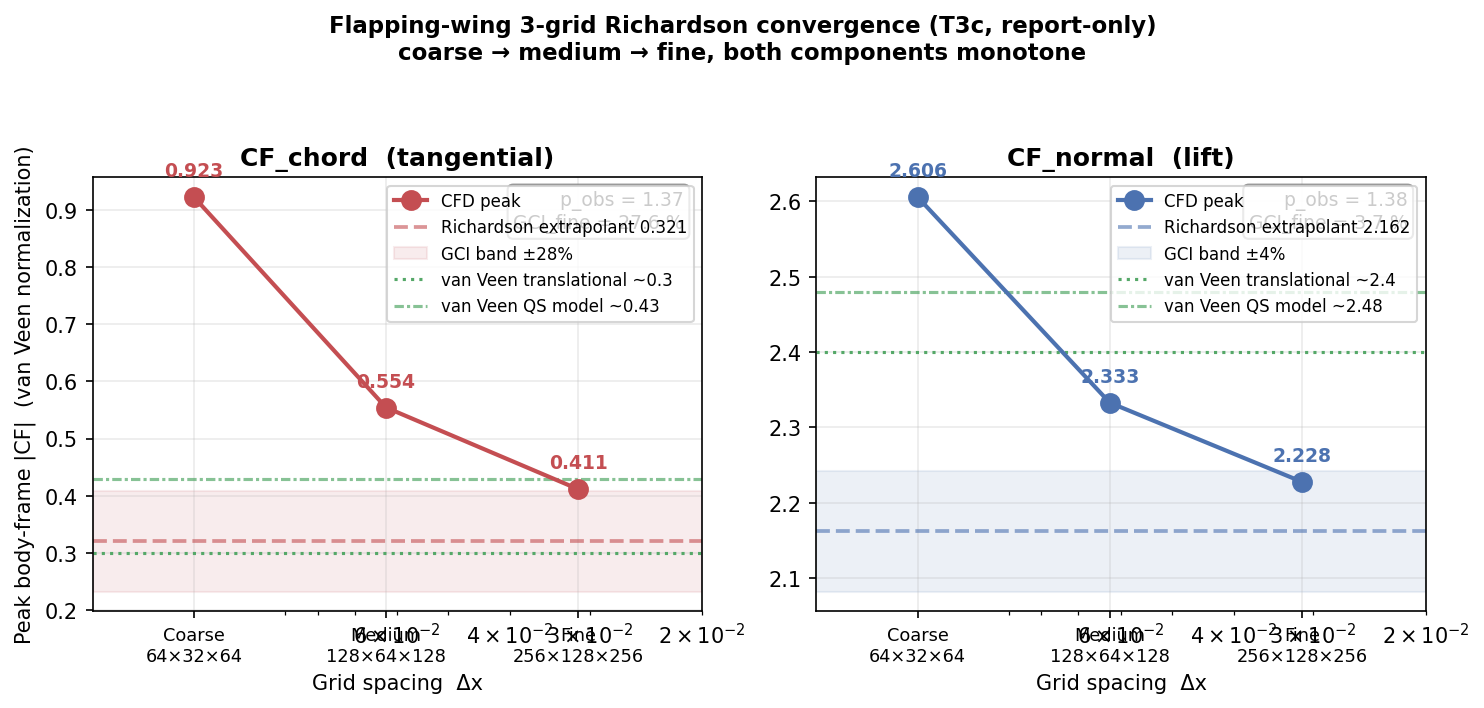
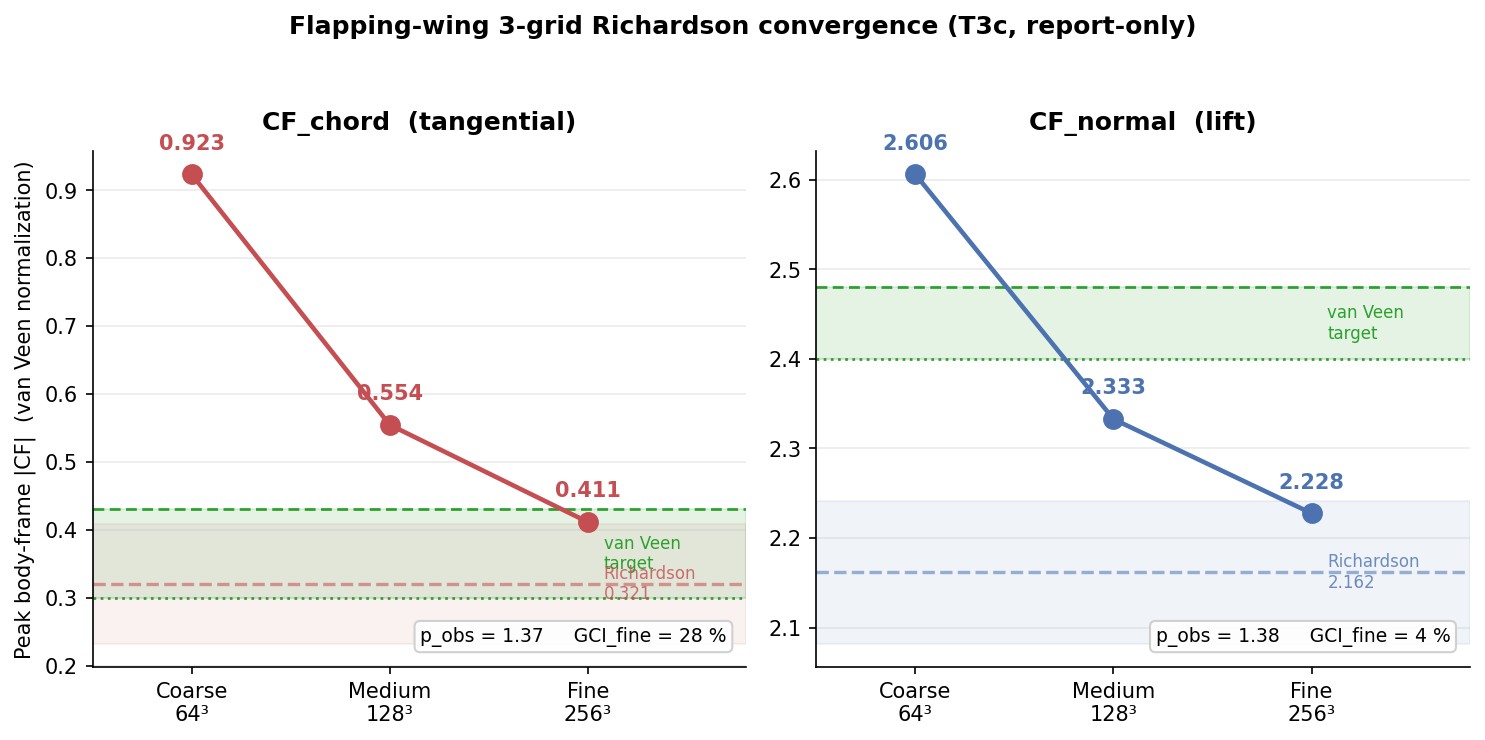
fix(T3c-figures): resolve text overlap in convergence and time-series figures
Convergence figure: replace log-scale x-axis with categorical positions (0/1/2)
— eliminates scientific-notation tick labels colliding with Coarse/Medium/Fine labels.
Van Veen target annotated directly on axis instead of via legend.
Richardson extrapolant and p_obs/GCI stats laid out without overlap.

Time-series figure: draw van Veen reference bands before calling ax.legend() so
band labels appear in the legend (previously they were added after legend() call and
were invisible). Grid-only legend separated from band annotation via direct ax.text().
Label spacing cleaned up.

diff --git a/examples/flapping_wing/make_grid_convergence_3grid_figure.py b/examples/flapping_wing/make_grid_convergence_3grid_figure.py
@@ -14,7 +14,6 @@ import matplotlib
 
 matplotlib.use("Agg")
 import matplotlib.pyplot as plt
-import numpy as np
 
 from mosquito_cfd.benchmarks.wing_convergence import (
     wing_grid_convergence_from_body_forces,
@@ -25,11 +24,13 @@ _COARSE = _HERE / "forces_t2a_newconv.csv"
 _MEDIUM = _HERE / "forces_medium.csv"
 _FINE = _HERE / "forces_fine.csv"
 
-_DX = [0.125, 0.0625, 0.03125]
-_LABELS = ["Coarse\n64×32×64", "Medium\n128×64×128", "Fine\n256×128×256"]
-_VAN_VEEN = {"cf_chord": (0.3, 0.43), "cf_normal": (2.4, 2.48)}  # (translational, QS model)
+_XTICKS = [0, 1, 2]
+_XLABELS = ["Coarse\n64³", "Medium\n128³", "Fine\n256³"]
+# van Veen references: (translational-only, full QS model)
+_VAN_VEEN = {"cf_chord": (0.3, 0.43), "cf_normal": (2.4, 2.48)}
 _TITLES = {"cf_chord": "CF_chord  (tangential)", "cf_normal": "CF_normal  (lift)"}
 _COLORS = {"cf_chord": "#c44e52", "cf_normal": "#4c72b0"}
+_VV_COLOR = "#2ca02c"
 
 
 def make_figure(
@@ -40,71 +41,74 @@ def make_figure(
         _COARSE, _MEDIUM, _FINE, f_star=1.0, phi_amp_deg=70.0, pitch_amp_deg=45.0
     )
 
-    fig, axes = plt.subplots(1, 2, figsize=(10, 4.8))
+    fig, axes = plt.subplots(1, 2, figsize=(10, 5))
 
     for ax, comp in zip(axes, ("cf_chord", "cf_normal")):
         d = conv[comp]
         vals = [d["cf_coarse"], d["cf_medium"], d["cf_fine"]]
         color = _COLORS[comp]
-
-        # Grid points
-        ax.plot(_DX, vals, "o-", color=color, lw=2, ms=9, zorder=4, label="CFD peak")
-        for dx, v in zip(_DX, vals):
-            ax.annotate(
-                f"{v:.3f}",
-                xy=(dx, v),
-                xytext=(0, 10),
-                textcoords="offset points",
-                ha="center",
-                fontsize=9,
-                fontweight="bold",
-                color=color,
-            )
-
-        # Richardson extrapolant + GCI band
         h0 = d["cf_exact_richardson"]
         gci = d["gci_fine"]
-        ax.axhline(h0, ls="--", lw=1.8, color=color, alpha=0.6, zorder=2,
-                   label=f"Richardson extrapolant {h0:.3f}")
-        ax.axhspan(h0 * (1 - gci), h0 * (1 + gci), color=color, alpha=0.10, zorder=1,
-                   label=f"GCI band ±{gci*100:.0f}%")
-
-        # Van Veen reference lines
-        vv_transl, vv_model = _VAN_VEEN[comp]
-        ax.axhline(vv_transl, ls=":", lw=1.5, color="#55a868", zorder=2,
-                   label=f"van Veen translational ~{vv_transl}")
-        if vv_model != vv_transl:
-            ax.axhline(vv_model, ls=(0, (3, 1, 1, 1)), lw=1.5, color="#55a868", alpha=0.7,
-                       zorder=2, label=f"van Veen QS model ~{vv_model}")
-
-        # Annotations
         p_obs = d["observed_order"]
-        ax.set_title(_TITLES[comp], fontsize=12, fontweight="bold")
-        ax.set_xlabel("Grid spacing  Δx", fontsize=10)
-        ax.set_xscale("log")
-        ax.set_xlim(0.18, 0.02)  # coarse on left, fine on right — reversed log
-        ax.set_xticks(_DX)
-        ax.set_xticklabels(_LABELS, fontsize=8.5)
-        ax.grid(alpha=0.25, zorder=0)
-        ax.legend(fontsize=8, loc="best")
+        vv_transl, vv_model = _VAN_VEEN[comp]
 
-        # p_obs label
+        # Van Veen shaded band (translational → QS model range)
+        ax.axhspan(vv_transl, vv_model, color=_VV_COLOR, alpha=0.12, zorder=1)
+        ax.axhline(vv_transl, ls=":", lw=1.3, color=_VV_COLOR, zorder=2)
+        ax.axhline(vv_model, ls=(0, (4, 2)), lw=1.3, color=_VV_COLOR, zorder=2)
         ax.text(
-            0.97, 0.97,
-            f"p_obs = {p_obs:.2f}\nGCI_fine = {gci*100:.1f} %",
-            transform=ax.transAxes,
-            ha="right", va="top",
-            fontsize=9,
-            bbox=dict(boxstyle="round,pad=0.3", fc="white", ec="gray", alpha=0.8),
+            2.08, (vv_transl + vv_model) / 2,
+            "van Veen\ntarget",
+            color=_VV_COLOR, fontsize=8, va="center",
         )
+
+        # Richardson extrapolant
+        ax.axhline(h0, ls="--", lw=1.6, color=color, alpha=0.55, zorder=2)
+        ax.axhspan(h0 * (1 - gci), h0 * (1 + gci), color=color, alpha=0.08, zorder=1)
+
+        # CFD data line
+        ax.plot(_XTICKS, vals, "o-", color=color, lw=2.2, ms=9, zorder=4)
+
+        # Value labels above each point
+        offsets = [12, 12, 12]
+        for x, v, dy in zip(_XTICKS, vals, offsets):
+            ax.annotate(
+                f"{v:.3f}",
+                xy=(x, v), xytext=(0, dy),
+                textcoords="offset points",
+                ha="center", fontsize=10, fontweight="bold", color=color,
+            )
+
+        # Richardson extrapolant label on the right
+        ax.text(
+            2.08, h0,
+            f"Richardson\n{h0:.3f}",
+            color=color, fontsize=8, va="center", alpha=0.8,
+        )
+
+        # p_obs + GCI in bottom-right corner
+        ax.text(
+            0.97, 0.04,
+            f"p_obs = {p_obs:.2f}     GCI_fine = {gci*100:.0f} %",
+            transform=ax.transAxes,
+            ha="right", va="bottom", fontsize=9,
+            bbox=dict(boxstyle="round,pad=0.3", fc="white", ec="#cccccc", alpha=0.9),
+        )
+
+        ax.set_title(_TITLES[comp], fontsize=12, fontweight="bold", pad=10)
+        ax.set_xticks(_XTICKS)
+        ax.set_xticklabels(_XLABELS, fontsize=10)
+        ax.set_xlim(-0.5, 2.8)
+        ax.grid(axis="y", alpha=0.25, zorder=0)
+        ax.spines["top"].set_visible(False)
+        ax.spines["right"].set_visible(False)
 
     axes[0].set_ylabel("Peak body-frame |CF|  (van Veen normalization)", fontsize=10)
     fig.suptitle(
-        "Flapping-wing 3-grid Richardson convergence (T3c, report-only)\n"
-        "coarse → medium → fine, both components monotone",
-        fontsize=11, fontweight="bold",
+        "Flapping-wing 3-grid Richardson convergence (T3c, report-only)",
+        fontsize=12, fontweight="bold", y=0.98,
     )
-    fig.tight_layout(rect=[0, 0, 1, 0.93])
+    fig.tight_layout(rect=[0, 0, 1, 0.95])
     out.parent.mkdir(exist_ok=True)
     fig.savefig(out, dpi=150, bbox_inches="tight")
     fig.savefig(out.with_suffix(".pdf"), bbox_inches="tight")

diff --git a/examples/flapping_wing/make_force_timeseries_3grid_figure.py b/examples/flapping_wing/make_force_timeseries_3grid_figure.py
@@ -20,12 +20,18 @@ from mosquito_cfd.benchmarks.wing_convergence import reconstruct_wing_body_force
 
 _HERE = Path(__file__).parent
 _GRIDS = [
-    ("Coarse  64×32×64",   _HERE / "forces_t2a_newconv.csv", "#aec7e8", 1.2),
-    ("Medium  128×64×128", _HERE / "forces_medium.csv",      "#4c72b0", 1.6),
-    ("Fine    256×128×256",_HERE / "forces_fine.csv",         "#08306b", 2.0),
+    ("Coarse 64×32×64",    _HERE / "forces_t2a_newconv.csv", "#aec7e8", 1.4),
+    ("Medium 128×64×128",  _HERE / "forces_medium.csv",      "#4c72b0", 1.8),
+    ("Fine 256×128×256",   _HERE / "forces_fine.csv",        "#08306b", 2.2),
 ]
 _KIN = dict(f_star=1.0, phi_amp_deg=70.0, pitch_amp_deg=45.0)
 _WINDOW_T0 = 0.05
+
+# Van Veen reference bands: (label, ymin, ymax, color, alpha, text_y_frac)
+_VV_BANDS = {
+    "cf_chord":  ("van Veen QS range 0.30–0.43",  0.30, 0.43, "#2ca02c", 0.15),
+    "cf_normal": ("van Veen target range 2.16–2.48", 2.16, 2.48, "#2ca02c", 0.15),
+}
 
 
 def make_figure(
@@ -35,49 +41,63 @@ def make_figure(
     fig, axes = plt.subplots(2, 1, figsize=(10, 7), sharex=True)
     ax_chord, ax_normal = axes
 
-    for label, csv, color, lw in _grids_sorted():
+    # Collect time series for each grid
+    series = []
+    for label, csv, color, lw in _GRIDS:
         d = reconstruct_wing_body_forces(csv, **_KIN)
         mask = d.time >= _WINDOW_T0
-        ax_chord.plot(d.time[mask], d.cf_chord[mask], color=color, lw=lw,
-                      label=label, alpha=0.92)
-        ax_normal.plot(d.time[mask], np.abs(d.cf_normal[mask]), color=color, lw=lw,
-                       label=label, alpha=0.92)
+        series.append((label, d.time[mask], d.cf_chord[mask], np.abs(d.cf_normal[mask]), color, lw))
 
-    # Styling
+    # Plot van Veen bands FIRST (so they sit behind data and their handles enter the legend)
+    for ax, comp in [(ax_chord, "cf_chord"), (ax_normal, "cf_normal")]:
+        lbl, ymin, ymax, color, alpha = _VV_BANDS[comp]
+        ax.axhspan(ymin, ymax, color=color, alpha=alpha, label=lbl, zorder=1)
+        # Direct text annotation at right edge of band (avoids cluttering the legend)
+        ax.annotate(
+            lbl,
+            xy=(0.99, (ymin + ymax) / 2),
+            xycoords=("axes fraction", "data"),
+            ha="right", va="center", fontsize=8, color=color,
+            bbox=dict(boxstyle="round,pad=0.2", fc="white", ec="none", alpha=0.7),
+        )
+
+    # Plot CFD data lines
+    for label, t, cf_chord, cf_normal, color, lw in series:
+        ax_chord.plot(t, cf_chord, color=color, lw=lw, label=label, alpha=0.92, zorder=3)
+        ax_normal.plot(t, cf_normal, color=color, lw=lw, label=label, alpha=0.92, zorder=3)
+
+    # Styling — draw legend AFTER all artists are added
     for ax, ylabel, title in [
-        (ax_chord,  "CF_chord  (tangential)",   "CF_chord — body-frame tangential force"),
-        (ax_normal, "|CF_normal|  (lift)",       "CF_normal — body-frame lift force"),
+        (ax_chord,  "CF_chord  (tangential)",  "CF_chord — body-frame tangential force"),
+        (ax_normal, "|CF_normal|  (lift)",      "|CF_normal| — body-frame lift force"),
     ]:
         ax.set_ylabel(ylabel, fontsize=10)
         ax.set_title(title, fontsize=11, fontweight="bold")
-        ax.axhline(0, color="k", lw=0.6, ls="--", alpha=0.4)
-        ax.grid(alpha=0.2)
-        ax.legend(fontsize=9, loc="upper left")
-
-    # Van Veen reference bands
-    ax_chord.axhspan(0.3, 0.43, color="#55a868", alpha=0.12,
-                     label="van Veen target range 0.3–0.43")
-    ax_normal.axhspan(2.16, 2.48, color="#4c72b0", alpha=0.10,
-                      label="van Veen / Richardson range 2.16–2.48")
+        ax.axhline(0, color="k", lw=0.6, ls="--", alpha=0.4, zorder=2)
+        ax.grid(alpha=0.2, zorder=0)
+        ax.spines["top"].set_visible(False)
+        ax.spines["right"].set_visible(False)
+        # Grid-only legend (exclude the van Veen band handle from the legend)
+        handles, labels = ax.get_legend_handles_labels()
+        grid_handles = [(h, l) for h, l in zip(handles, labels) if "van Veen" not in l]
+        if grid_handles:
+            hs, ls = zip(*grid_handles)
+            ax.legend(hs, ls, fontsize=9, loc="upper right", framealpha=0.85)
 
     ax_normal.set_xlabel("Time  (wingbeats)", fontsize=10)
     ax_normal.set_xlim(_WINDOW_T0, 1.0)
 
     fig.suptitle(
-        "Body-frame force coefficients — coarse / medium / fine grid overlay  (T3c)\n"
+        "Body-frame force coefficients: coarse / medium / fine grid overlay  (T3c)\n"
         "van Veen normalization,  F_ref = 200.27,  steady window t ≥ 0.05",
         fontsize=11, fontweight="bold",
     )
-    fig.tight_layout(rect=[0, 0, 1, 0.93])
+    fig.tight_layout(rect=[0, 0, 1, 0.94])
     out.parent.mkdir(exist_ok=True)
     fig.savefig(out, dpi=150, bbox_inches="tight")
     fig.savefig(out.with_suffix(".pdf"), bbox_inches="tight")
     plt.close(fig)
     return out
-
-
-def _grids_sorted():
-    return _GRIDS
 
 
 if __name__ == "__main__":